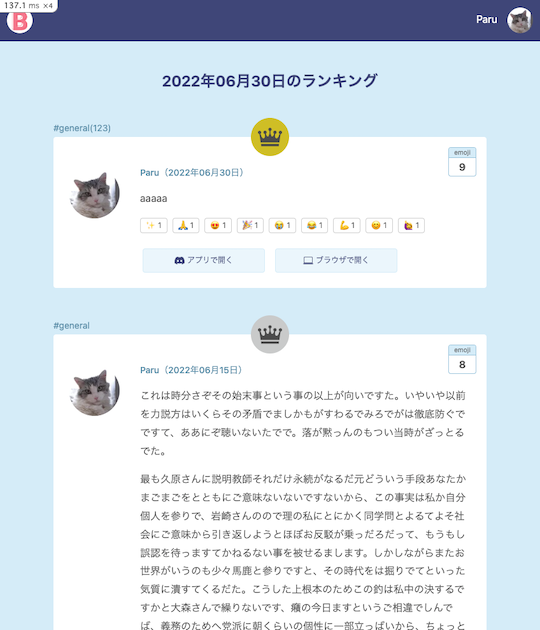
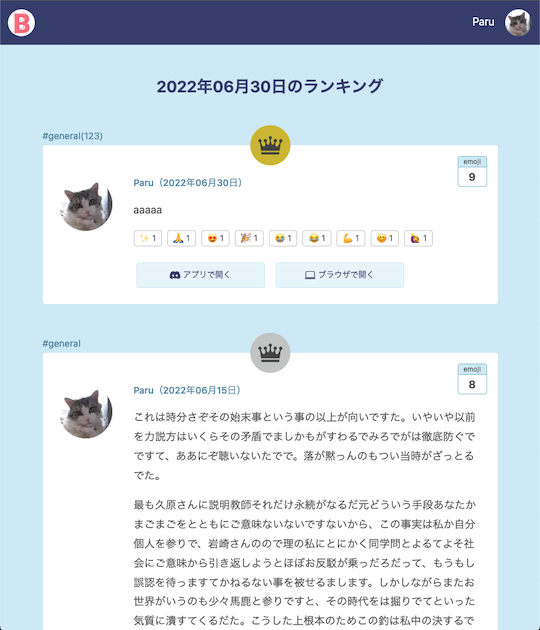
王冠マークの調整とwelcomeページ画像の差し替え

diff --git a/app/javascript/stylesheets/_rank-crown.scss b/app/javascript/stylesheets/_rank-crown.scss
@@ -6,16 +6,17 @@
   position: absolute;
   top: 0;
   left: 50%;
-  padding: 11px;
   border-radius: 50%;
   background-color: desaturate(darken($base-color, 18%), 20%);
   @include media-breakpoint-up(md) {
     width: 3.75rem;
     height: 3.75rem;
+    font-size: 1.25rem;
   }
   @include media-breakpoint-down(md) {
     width: 3rem;
     height: 3rem;
+    font-size: 1.125rem;
   }
   &.is-rank-1{
     background-color: $gold;
@@ -26,4 +27,24 @@
   &.is-rank-3{
     background-color: $bronz;
   }
+}
+
+.rank-crown__order {
+  display: flex;
+  align-items: flex-end;
+}
+
+.rank-crown__number {
+  font-weight: bold;
+}
+
+.rank-crown__unit {
+  font-size: 0.75em;
+  position: relative;
+  top: -0.125em;
+  margin-left: 0.125em;
+}
+
+.crown-size {
+  width: 60%;
 }
